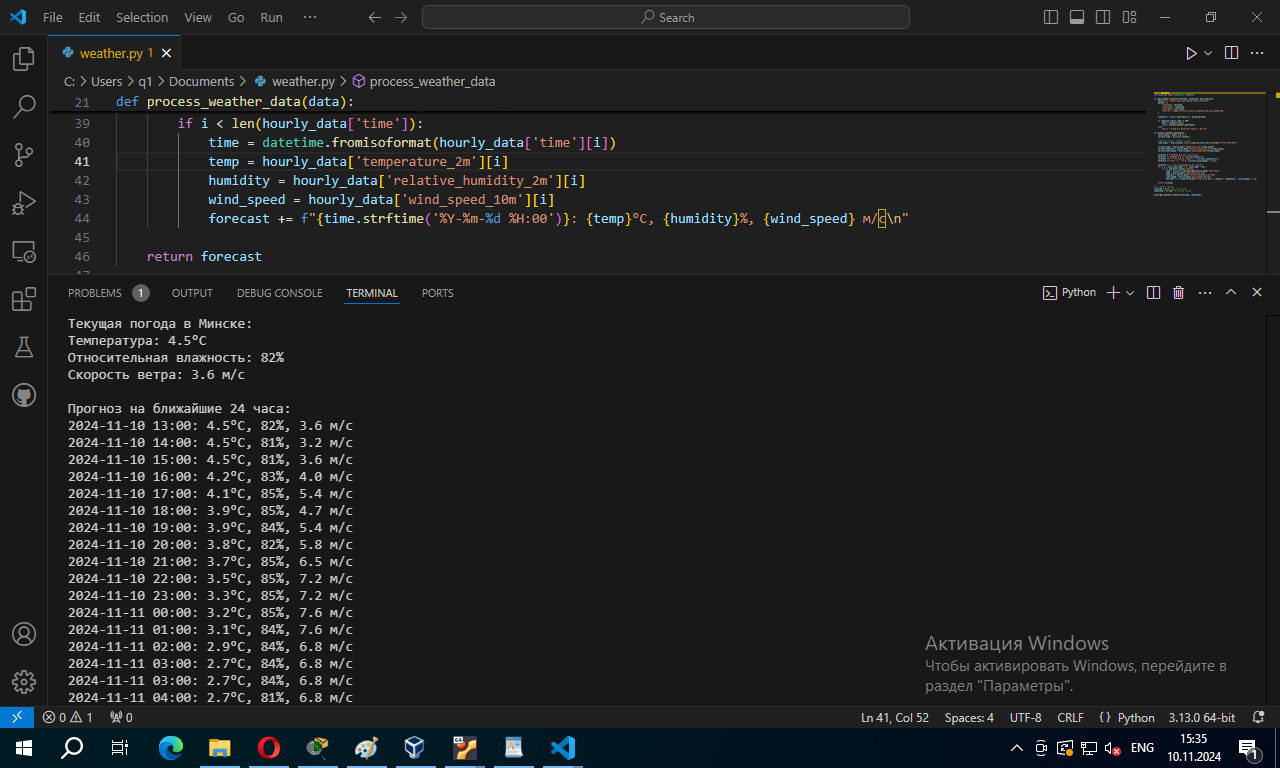
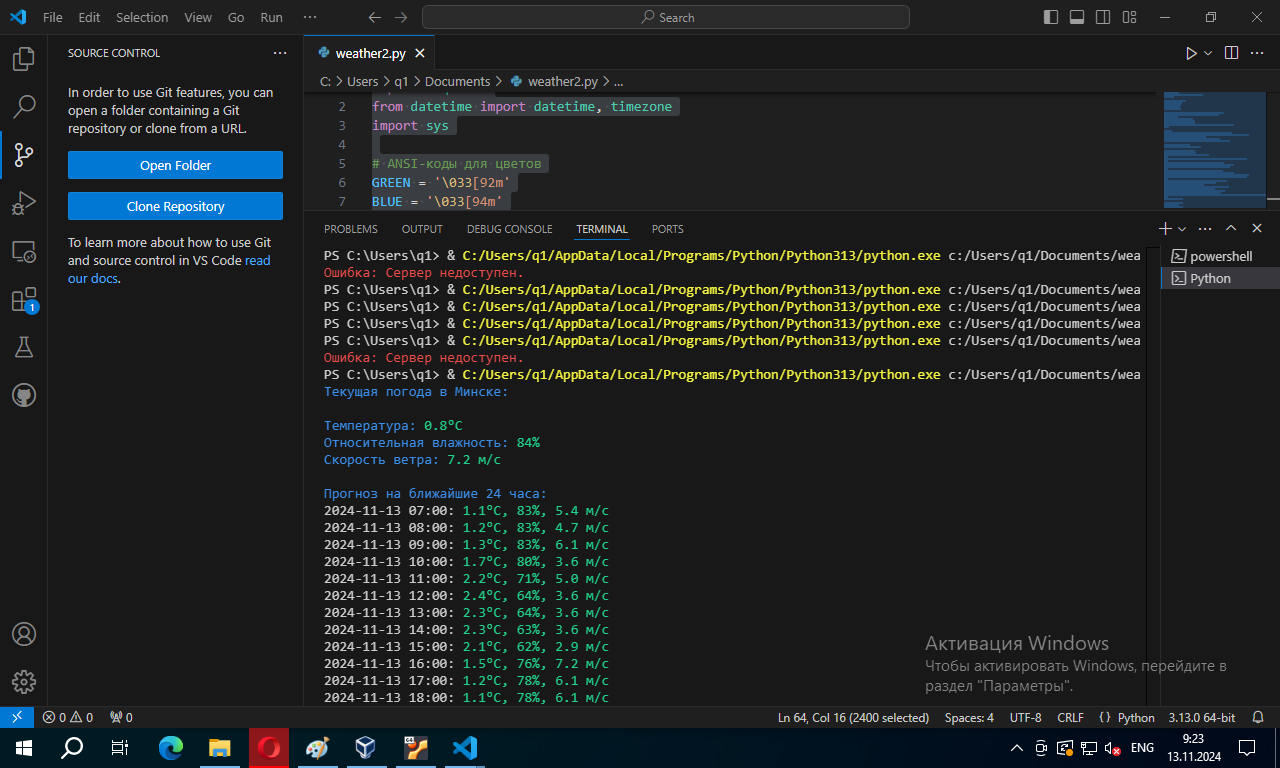
27_7

diff --git a/Lesson_27/weather2.py b/Lesson_27/weather2.py
@@ -1,0 +1,64 @@
+import requests
+from datetime import datetime, timezone
+import sys
+
+# ANSI-коды для цветов
+GREEN = '\033[92m'
+BLUE = '\033[94m'
+RED = '\033[91m'
+RESET = '\033[0m'
+
+def get_weather_forecast(latitude, longitude, past_days=10):
+    base_url = "https://api.open-meteo.com/v1/forecast"
+    params = {
+        "latitude": latitude,
+        "longitude": longitude,
+        "past_days": past_days,
+        "hourly": "temperature_2m,relative_humidity_2m,wind_speed_10m"
+    }
+
+    try:
+        response = requests.get(base_url, params=params, timeout=10)
+        response.raise_for_status()  # Вызовет исключение для неуспешных статус-кодов
+    except requests.RequestException as e:
+        print(f"{RED}Ошибка: Сервер недоступен.{RESET}")
+        sys.exit(1)  # Завершаем выполнение скрипта с кодом ошибки
+
+    data = response.json()
+    return process_weather_data(data)
+
+def process_weather_data(data):
+    hourly_data = data['hourly']
+    current_time = datetime.now(timezone.utc)
+    
+    time_index = hourly_data['time'].index(current_time.strftime("%Y-%m-%dT%H:00"))
+    
+    current_temp = hourly_data['temperature_2m'][time_index]
+    current_humidity = hourly_data['relative_humidity_2m'][time_index]
+    current_wind_speed = hourly_data['wind_speed_10m'][time_index]
+    
+    forecast = f"{BLUE}Текущая погода в Минске:{RESET}\n\n"
+    forecast += f"{BLUE}Температура: {GREEN}{current_temp}°C{RESET}\n"
+    forecast += f"{BLUE}Относительная влажность: {GREEN}{current_humidity}%{RESET}\n"
+    forecast += f"{BLUE}Скорость ветра: {GREEN}{current_wind_speed} м/с{RESET}\n\n"
+    
+    forecast += f"{BLUE}Прогноз на ближайшие 24 часа:{RESET}\n"
+    for i in range(time_index + 1, time_index + 25):
+        if i < len(hourly_data['time']):
+            time = datetime.fromisoformat(hourly_data['time'][i])
+            temp = hourly_data['temperature_2m'][i]
+            humidity = hourly_data['relative_humidity_2m'][i]
+            wind_speed = hourly_data['wind_speed_10m'][i]
+            forecast += f"{time.strftime('%Y-%m-%d %H:00')}: {GREEN}{temp}°C, {humidity}%, {wind_speed} м/с{RESET}\n"
+    
+    return forecast
+
+# Координаты Минска
+latitude = 53.9
+longitude = 27.5667
+
+try:
+    print(get_weather_forecast(latitude, longitude))
+except Exception as e:
+    print(f"{RED}Произошла непредвиденная ошибка: {e}{RESET}")
+    sys.exit(1)

diff --git a/README.md b/README.md
@@ -1565,12 +1565,19 @@ ___
 
 Python скрипт для получения информации о погоде с сайта api.open-meteo.com в городе Минске.
 
-[weather_script](/Lesson_27/weather.py)
+[weather_script](/Lesson_27/weather2.py)
 
-```pyton
+```python
 
 import requests
-from datetime import datetime, timedelta, timezone 
+from datetime import datetime, timezone
+import sys
+
+# ANSI-коды для цветов
+GREEN = '\033[92m'
+BLUE = '\033[94m'
+RED = '\033[91m'
+RESET = '\033[0m'
 
 def get_weather_forecast(latitude, longitude, past_days=10):
     base_url = "https://api.open-meteo.com/v1/forecast"
@@ -1581,46 +1588,51 @@ def get_weather_forecast(latitude, longitude, past_days=10):
         "hourly": "temperature_2m,relative_humidity_2m,wind_speed_10m"
     }
 
-    response = requests.get(base_url, params=params)
-    
-    if response.status_code == 200:
-        data = response.json()
-        return process_weather_data(data)
-    else:
-        return "Ошибка при получении данных о погоде"
+    try:
+        response = requests.get(base_url, params=params, timeout=10)
+        response.raise_for_status()  # Вызовет исключение для неуспешных статус-кодов
+    except requests.RequestException as e:
+        print(f"{RED}Ошибка: Сервер недоступен.{RESET}")
+        sys.exit(1)  # Завершаем выполнение скрипта с кодом ошибки
+
+    data = response.json()
+    return process_weather_data(data)
 
 def process_weather_data(data):
     hourly_data = data['hourly']
     current_time = datetime.now(timezone.utc)
     
-    # Находим индекс текущего времени
     time_index = hourly_data['time'].index(current_time.strftime("%Y-%m-%dT%H:00"))
     
     current_temp = hourly_data['temperature_2m'][time_index]
     current_humidity = hourly_data['relative_humidity_2m'][time_index]
     current_wind_speed = hourly_data['wind_speed_10m'][time_index]
     
-    forecast = f"Текущая погода в Минске:\n"
-    forecast += f"Температура: {current_temp}°C\n"
-    forecast += f"Относительная влажность: {current_humidity}%\n"
-    forecast += f"Скорость ветра: {current_wind_speed} м/с\n\n"
+    forecast = f"{BLUE}Текущая погода в Минске:{RESET}\n\n"
+    forecast += f"{BLUE}Температура: {GREEN}{current_temp}°C{RESET}\n"
+    forecast += f"{BLUE}Относительная влажность: {GREEN}{current_humidity}%{RESET}\n"
+    forecast += f"{BLUE}Скорость ветра: {GREEN}{current_wind_speed} м/с{RESET}\n\n"
     
-    forecast += "Прогноз на ближайшие 24 часа:\n"
+    forecast += f"{BLUE}Прогноз на ближайшие 24 часа:{RESET}\n"
     for i in range(time_index + 1, time_index + 25):
         if i < len(hourly_data['time']):
             time = datetime.fromisoformat(hourly_data['time'][i])
             temp = hourly_data['temperature_2m'][i]
             humidity = hourly_data['relative_humidity_2m'][i]
             wind_speed = hourly_data['wind_speed_10m'][i]
-            forecast += f"{time.strftime('%Y-%m-%d %H:00')}: {temp}°C, {humidity}%, {wind_speed} м/с\n"
+            forecast += f"{time.strftime('%Y-%m-%d %H:00')}: {GREEN}{temp}°C, {humidity}%, {wind_speed} м/с{RESET}\n"
     
     return forecast
 
 # Координаты Минска
-latitude = 53.9  # Широта Минска
-longitude = 27.5667  # Долгота Минска
+latitude = 53.9
+longitude = 27.5667
 
-print(get_weather_forecast(latitude, longitude))
+try:
+    print(get_weather_forecast(latitude, longitude))
+except Exception as e:
+    print(f"{RED}Произошла непредвиденная ошибка: {e}{RESET}")
+    sys.exit(1)
 
 ```
 
